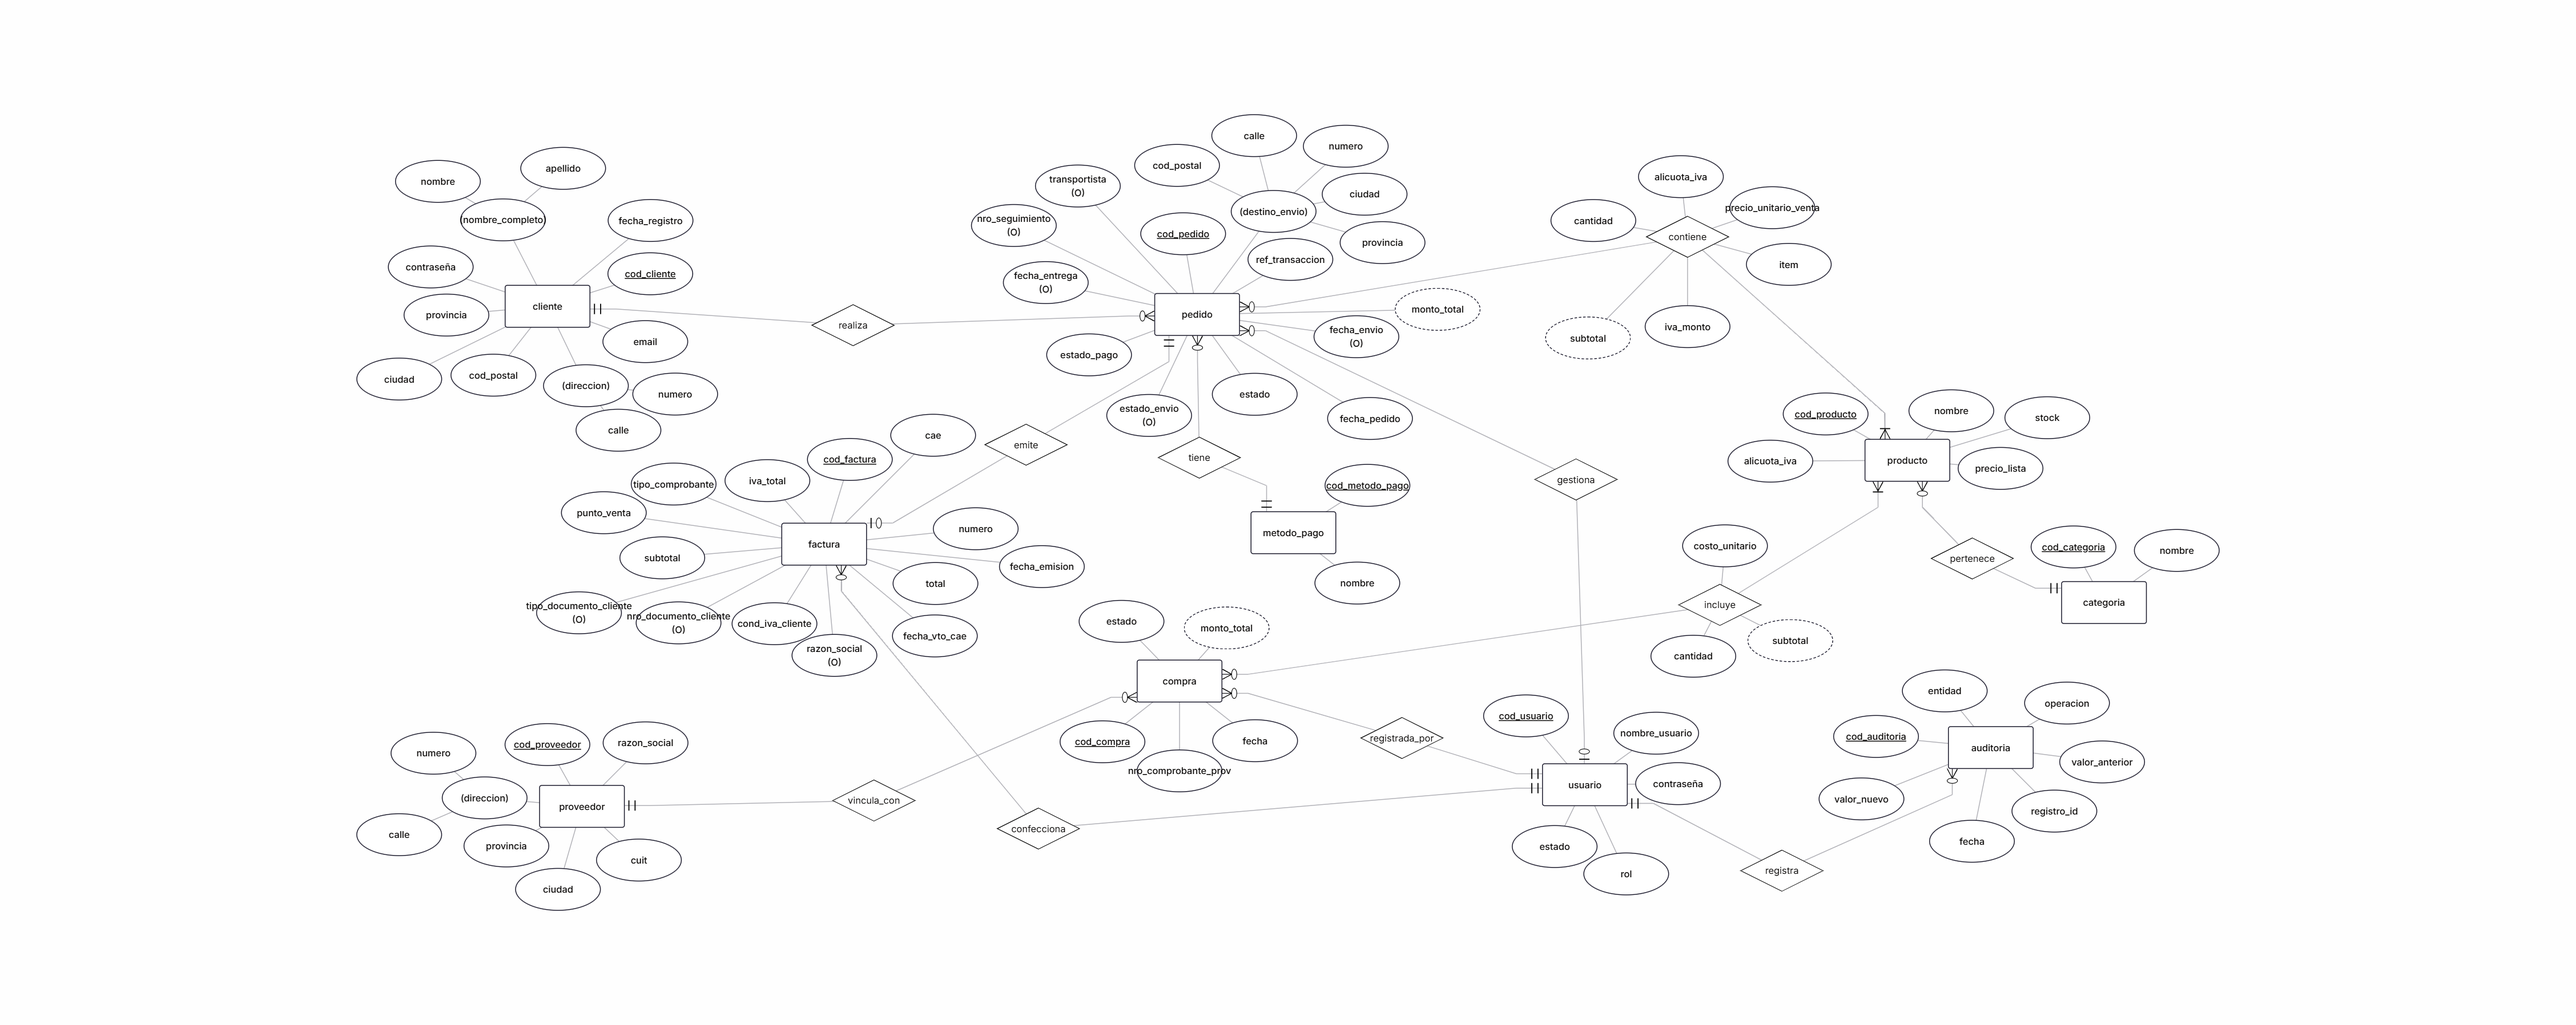
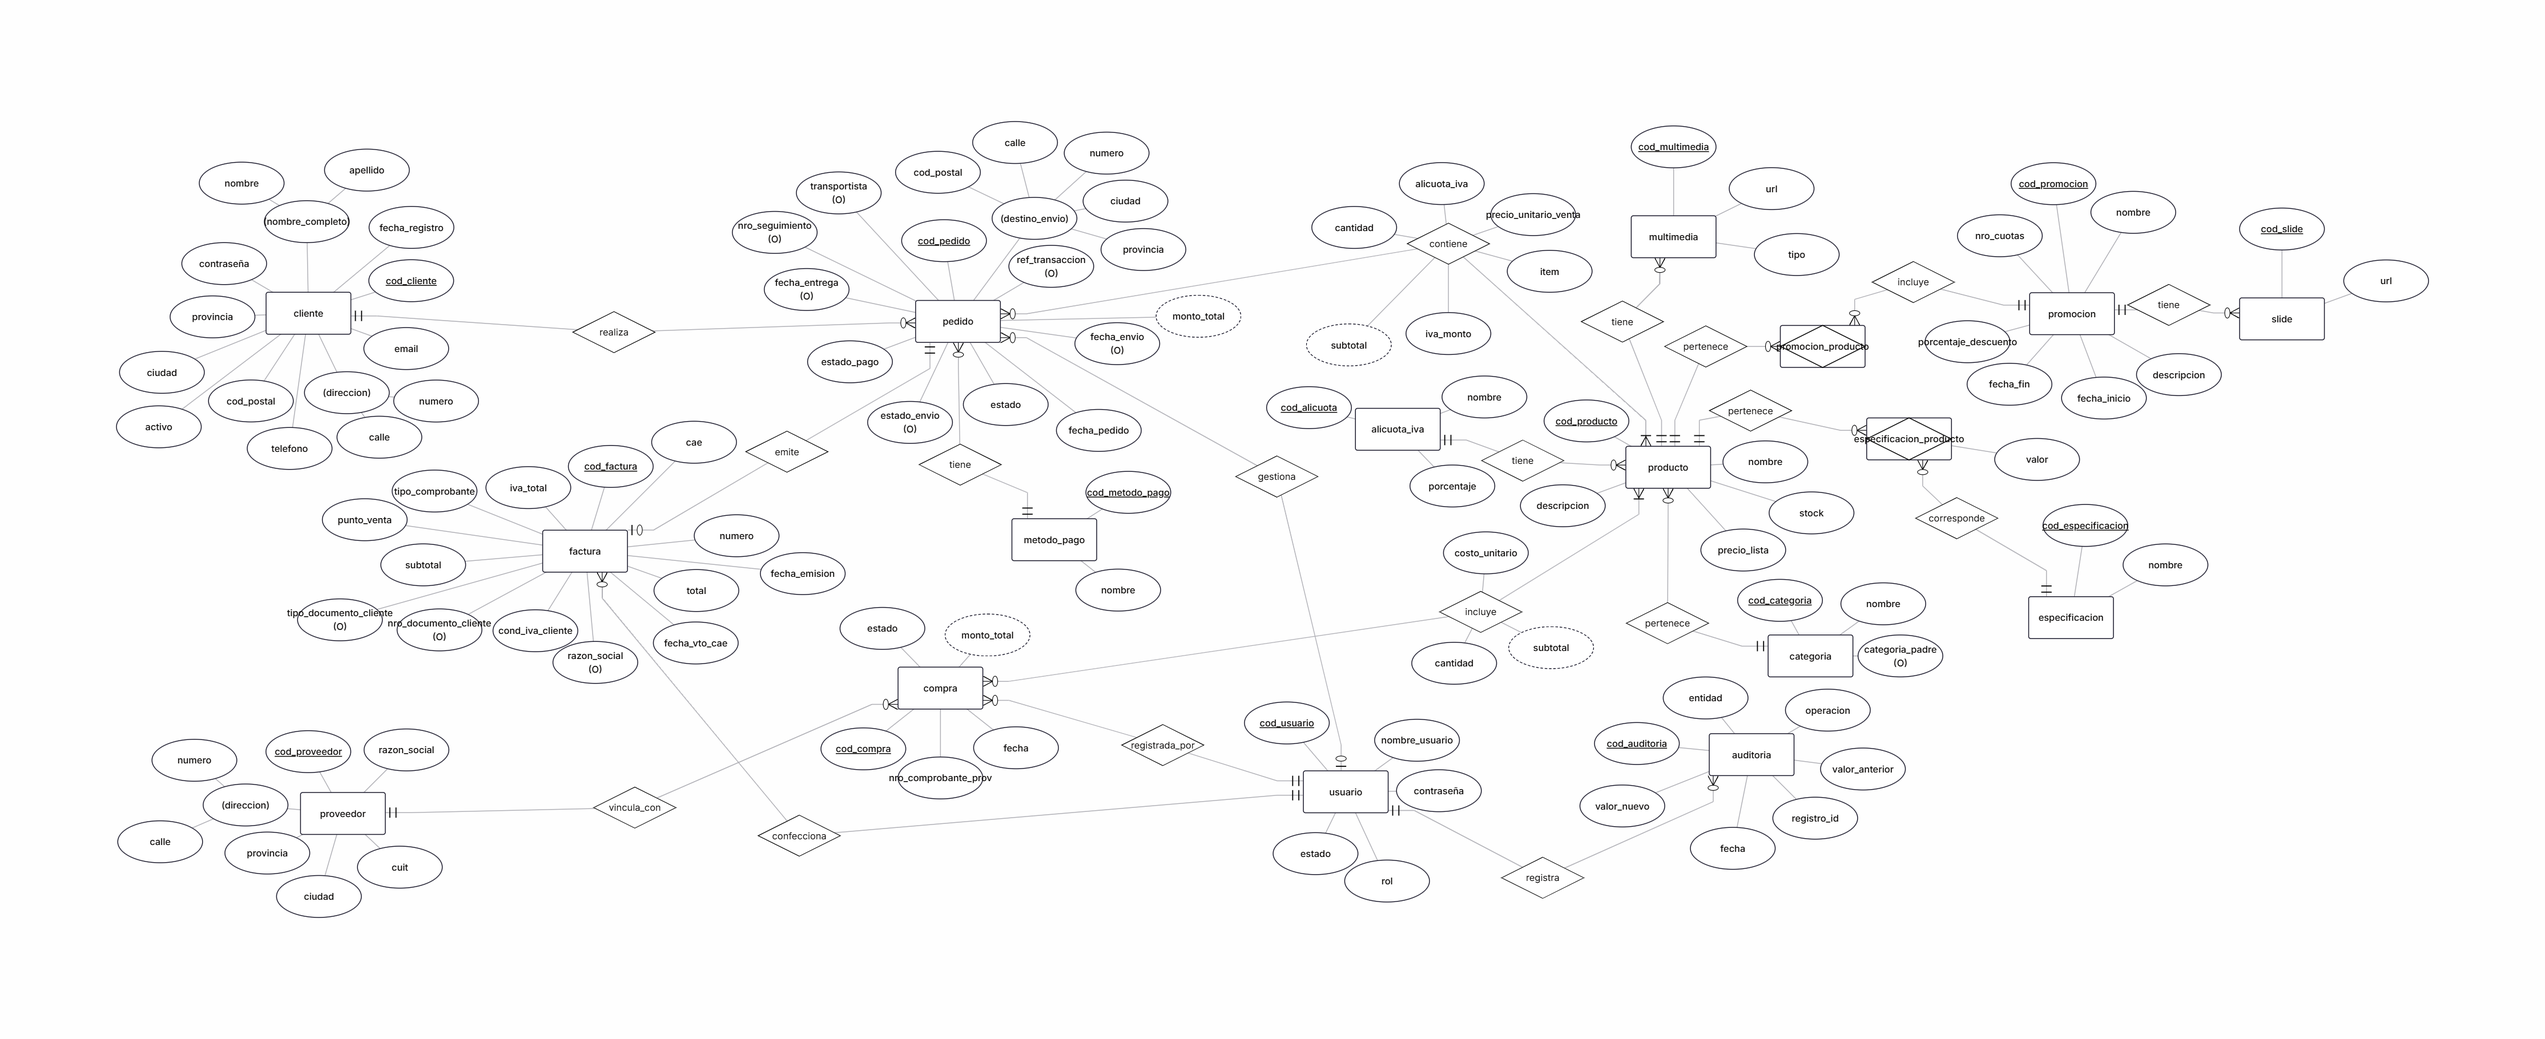
Primer refinamiento de la etapa 1 y 2

diff --git a/docs/etapa-02/modelo-relacional.md b/docs/etapa-02/modelo-relacional.md
@@ -93,10 +93,10 @@ A continuación el detalle en tablas del mapeo de cada una de las entidades fuer
 | cod_producto | INT | PK |
 | nombre | VARCHAR | |
 | precio_lista | DECIMAL | |
-| alicuota_iva | DECIMAL | |
+| descripcion | VARCHAR | Opcional |
+| cod_alicuota | INT | FK -> alicuota_iva |
 | stock | INT | |
 | cod_categoria | INT | FK -> categoria |
-
 
 ### detalle_pedido
 | Columna | Tipo Dato| Restricción |
@@ -170,10 +170,61 @@ A continuación el detalle en tablas del mapeo de cada una de las entidades fuer
 | valor_nuevo | VARCHAR | |
 | cod_usuario | INT | FK → usuario |
 
+### alicuota_iva
+| Columna | Tipo Dato | Restricción |
+|---|---|---|
+| cod_alicuota | INT | PK (código oficial de ARCA) |
+| nombre | VARCHAR | UQ |
+| porcentaje | DECIMAL | UQ |
+
+### promocion
+| Columna | Tipo Dato | Restricción |
+|---|---|---|
+| cod_promocion | INT | PK |
+| nombre | VARCHAR | |
+| descripcion | VARCHAR | Opcional |
+| fecha_inicio | DATETIME | |
+| fecha_fin | DATETIME | |
+| porcentaje_descuento | DECIMAL | Opcional |
+| nro_cuotas | INT | Opcional |
+
+### promocion_producto
+| Columna | Tipo Dato | Restricción |
+|---|---|---|
+| cod_promocion | INT | PK, FK -> promocion |
+| cod_producto | INT | PK, FK -> producto |
+
+### slide
+| Columna | Tipo Dato | Restricción |
+|---|---|---|
+| cod_slide | INT | PK |
+| url | VARCHAR | UQ |
+| cod_promocion | INT | FK -> promocion |
+
+### multimedia
+| Columna | Tipo Dato | Restricción |
+|---|---|---|
+| cod_multimedia | INT | PK |
+| url | VARCHAR | UQ |
+| cod_producto | INT | FK -> producto |
+
+### especificacion
+| Columna | Tipo Dato | Restricción |
+|---|---|---|
+| cod_especificacion | INT | PK |
+| nombre | VARCHAR | UQ |
+
+### especificacion_producto
+| Columna | Tipo Dato | Restricción |
+|---|---|---|
+| cod_producto | INT | PK, FK -> producto |
+| cod_especificacion | INT | PK, FK -> especificacion |
+| valor | VARCHAR | |
+
 
 ## Descripciones del mapeo
 
-En el DER propuesto para el sistema, las entidades fuertes son: cliente, pedido, metodo_pago, producto, categoria, usuario, proveedor, compra, factura y auditoria.
+En el DER propuesto para el sistema, las entidades fuertes son: cliente, pedido, metodo_pago, producto, categoria, usuario, proveedor, compra, factura, auditoria, alicuota_iva, promocion, slide, multimedia y especificacion.
 
 Los atributos compuestos del DER (nombre_completo, direccion, destino_envio) se descomponen en sus componentes simples como columnas independientes:
 nombre_completo -> nombre + apellido.
@@ -189,12 +240,19 @@ metodo_pago (1) — pedido (N) -> metodo_pago.cod_metodo_pago FK,
 proveedor (1) — compra (N) -> compra.cod_proveedor FK,
 usuario (1) — compra (N) -> compra.cod_usuario FK,
 usuario (1) — factura (N) -> factura.cod_usuario FK,
-usuario (1) — auditoria (N) -> auditoria.cod_usuario FK.
+usuario (1) — auditoria (N) -> auditoria.cod_usuario FK,
+alicuota_iva (1) — producto (N) -> producto.cod_alicuota FK,
+promocion (1) — slide (N) -> slide.cod_promocion FK,
+producto (1) — multimedia (N) -> multimedia.cod_producto FK.
 
 Relación 1:1 opcional: pedido (1) — factura (0..1). La FK se ubica en el lado de cardinalidad obligatoria hacia el otro, es decir en `factura` (factura.cod_pedido), ya que toda factura requiere obligatoriamente un pedido, mientras que un pedido puede no tener factura todavía (por ejemplo, si todavía no fue facturado).
 
 Relación N:M: La relación pedido — producto (`contiene`) pasa a ser la tabla `detalle_pedido`, cuya PK combina las FK de ambas entidades participantes (cod_pedido, cod_producto).
 La relación compra — producto (`incluye`) pasa a ser la tabla `detalle_compra`, cuya PK combina las FK de ambas entidades participantes (cod_compra, cod_producto).
+La relación producto — promocion (`participa`) pasa a ser la tabla `promocion_producto`, cuya PK combina las FK de ambas entidades participantes (cod_promocion, cod_producto).
+La relación producto — especificacion (`posee`) pasa a ser la tabla `especificacion_producto`, cuya PK combina las FK de ambas entidades participantes (cod_producto, cod_especificacion).
+
+Atributos de la relación N:M especificacion_producto: el atributo que colgaba del rombo "posee" (valor) pasa a ser columna de especificacion_producto, ya que depende de la combinación completa de ambas FK (el mismo tipo de especificación tiene distinto valor en cada producto).
 
 Atributos de la relación N:M detalle_pedido: Los atributos que colgaban del rombo de relación en el DER (cantidad, precio_unitario_venta, alicuota_iva, iva_monto, item en "contiene") pasan a ser columnas de detalle_pedido, ya que dependen funcionalmente de la combinación completa de ambas FK.
 
@@ -202,8 +260,7 @@ Atributos de la relación N:M detalle_compra: Los atributos que colgaban del rom
 
 Los atributos marcados como "Derived" en el DER (monto_total de pedido, monto_total de compra y subtotal en las relaciones N:M "contiene" e "incluye") no se almacenan como columna física; se calculan en el momento de la consulta o mediante función/columna generada.
 
-Los atributos marcados (O)/Optional en el DER (estado_envio, transportista, nro_seguimiento, fecha_envio, fecha_entrega en pedido; nro_comprobante_prov en compra; tipo_documento_cliente, nro_documento_cliente, razon_social en factura) se mantienen como columnas que admiten valores nulos.
-
+Los atributos marcados (O)/Optional en el DER (estado_envio, transportista, nro_seguimiento, fecha_envio, fecha_entrega en pedido; nro_comprobante_prov en compra; tipo_documento_cliente, nro_documento_cliente, razon_social en factura; descripcion en producto; descripcion, porcentaje_descuento y nro_cuotas en promocion) se mantienen como columnas que admiten valores nulos.
 
 ## Diagrama relacional
 
@@ -222,6 +279,13 @@ erDiagram
     COMPRA ||--|{ DETALLE_COMPRA : incluye
     PRODUCTO ||--o{ DETALLE_COMPRA : "incluido en"
     USUARIO ||--o{ AUDITORIA : registra
+    ALICUOTA_IVA ||--o{ PRODUCTO : aplica
+    PRODUCTO ||--o{ PROMOCION_PRODUCTO : participa
+    PROMOCION ||--|{ PROMOCION_PRODUCTO : incluye
+    PROMOCION ||--o{ SLIDE : publica
+    PRODUCTO ||--o{ MULTIMEDIA : muestra
+    PRODUCTO ||--o{ ESPECIFICACION_PRODUCTO : posee
+    ESPECIFICACION ||--o{ ESPECIFICACION_PRODUCTO : corresponde
 
 
     CLIENTE {
@@ -254,11 +318,12 @@ erDiagram
     PRODUCTO {
         INT cod_producto PK
         VARCHAR nombre
+        VARCHAR descripcion "O"
         DECIMAL precio_lista
-        DECIMAL alicuota_iva
+        INT cod_alicuota FK
         INT stock
         INT cod_categoria FK
-    }   
+    } 
 
     METODO_PAGO {
         INT cod_metodo_pago PK
@@ -350,6 +415,50 @@ erDiagram
         VARCHAR valor_anterior
         VARCHAR valor_nuevo
         INT cod_usuario FK
+    }
+
+    ALICUOTA_IVA {
+        INT cod_alicuota PK
+        VARCHAR nombre UK
+        DECIMAL porcentaje UK
+    }
+
+    PROMOCION {
+        INT cod_promocion PK
+        VARCHAR nombre
+        VARCHAR descripcion "O"
+        DATETIME fecha_inicio
+        DATETIME fecha_fin
+        DECIMAL porcentaje_descuento "O"
+        INT nro_cuotas "O"
+    }
+
+    PROMOCION_PRODUCTO {
+        INT cod_promocion PK,FK
+        INT cod_producto PK,FK
+    }
+
+    SLIDE {
+        INT cod_slide PK
+        VARCHAR url UK
+        INT cod_promocion FK
+    }
+
+    MULTIMEDIA {
+        INT cod_multimedia PK
+        VARCHAR url UK
+        INT cod_producto FK
+    }
+
+    ESPECIFICACION {
+        INT cod_especificacion PK
+        VARCHAR nombre UK
+    }
+
+    ESPECIFICACION_PRODUCTO {
+        INT cod_producto PK,FK
+        INT cod_especificacion PK,FK
+        VARCHAR valor
     }
 ```
 

diff --git a/docs/etapa-01/reglas-negocio.md b/docs/etapa-01/reglas-negocio.md
@@ -24,7 +24,7 @@
 
 **RN.12:** Cada operación interna del sistema se realiza a través de un usuario con credenciales únicas y rol asignado previamente: depósito, administrador o soporte. No existe el rol vendedor (en e-commerce el pedido lo genera el cliente directamente, sin intervención de un vendedor).
 
-**RN.13:** El rol depósito gestiona las compras a proveedores y confirma el despacho de pedidos (lo que dispara la salida de stock); el rol administrador gestiona el catálogo (productos, categorías, proveedores, precios), la administración de usuarios (creación de cuentas), y tiene acceso de solo lectura a la auditoría; el rol soporte puede consultar el estado de pedidos y envíos, sin permisos sobre catálogo ni compras.
+**RN.13:** El rol depósito gestiona las compras a proveedores y confirma el despacho de pedidos (lo que dispara la salida de stock); el rol administrador gestiona el catálogo (productos, categorías, proveedores, precios, alícuotas de IVA, promociones, slides, multimedia y especificaciones), la administración de usuarios (creación de cuentas), y tiene acceso de solo lectura a la auditoría; el rol soporte puede consultar el estado de pedidos y envíos, sin permisos sobre catálogo ni compras.
 
 **RN.14:** Los cambios sobre datos sensibles (precios, stock, pedidos, compras, facturación) quedan registrados en la auditoría, identificando el usuario responsable, la operación realizada y la fecha.
 
@@ -43,3 +43,15 @@
 **RN.21:** Toda factura queda asociada al usuario que la emitió, para su trazabilidad en la auditoría.
 
 **RN.22:** Al confirmar el despacho de un pedido, el sistema registra qué usuario del rol depósito realizó esa gestión.
+
+**RN.23:** Una promoción se registra con nombre, descripción, fecha de inicio y fecha de fin (la fecha de fin no puede ser anterior a la de inicio). Puede ofrecer un porcentaje de descuento (mayor a 0 y hasta 75), cuotas sin interés (entre 2 y 36), o ambos, pero al menos uno de los dos beneficios.
+
+**RN.24:** Una promoción puede aplicarse a uno o varios productos, y un producto puede participar en varias promociones a lo largo del tiempo. Si un producto tiene más de una promoción vigente a la vez, se aplica la de mayor descuento. El precio final con descuento queda congelado en el detalle del pedido al confirmarse la venta (complementa RN.03 y RN.19).
+
+**RN.25:** Una promoción puede tener ninguno, uno o varios slides (banners), y cada slide pertenece a una única promoción.
+
+**RN.26:** Un producto puede tener ninguno, uno o varios archivos multimedia (imágenes o videos) identificados por su URL, y cada archivo pertenece a un único producto.
+
+**RN.27:** Las especificaciones técnicas forman un catálogo con nombre único. Cada producto puede tener varias especificaciones, y cada una registra un valor propio para ese producto (por ejemplo, especificación "Tamaño de pantalla", valor "50 pulgadas").
+
+**RN.28:** Las alícuotas de IVA se registran en un catálogo único y cada producto tiene asignada una alícuota de ese catálogo. Por el rubro de la tienda, los productos solo utilizan la alícuota general (21 %) o la reducida (10,5 %). Al confirmarse una venta, el porcentaje vigente se copia en el detalle del pedido y no se modifica aunque el catálogo cambie después (complementa RN.19).

diff --git a/docs/etapa-02/decisiones-diseno.md b/docs/etapa-02/decisiones-diseno.md
@@ -36,6 +36,21 @@ Se evaluó modelar el domicilio del cliente en una entidad "domicilio" versionad
 
 ## 9. Alícuota de IVA en Producto y en DetallePedido
 
-"producto.alicuota_iva" refleja la alícuota vigente aplicable al producto (ya que ésta puede variar según su clasificación fiscal, entre categorías de productos). "detallePedido.alicuota_iva" es una copia histórica de esa alícuota al momento de la venta, se justifica no porque varíe entre productos, sino porque las alícuotas pueden modificarse en el tiempo (por ejemplo por decreto); un pedido ya facturado no debe verse afectado por cambios normativos posteriores.
+"producto.cod_alicuota" referencia la alícuota vigente aplicable al producto en el catálogo alicuota_iva (ver decisión 13)(ya que ésta puede variar según su clasificación fiscal, entre categorías de productos). "detallePedido.alicuota_iva" es una copia histórica de esa alícuota al momento de la venta, se justifica no porque varíe entre productos, sino porque las alícuotas pueden modificarse en el tiempo (por ejemplo por decreto); un pedido ya facturado no debe verse afectado por cambios normativos posteriores.
 
 
+## 10. Valor de la especificación en la relación y no en la entidad
+
+`especificacion` funciona como catálogo con el nombre de cada característica (por ejemplo "Tamaño de pantalla"). El dato concreto de cada producto ("50 pulgadas") se guarda en `especificacion_producto.valor`, porque depende de la combinación producto + especificación. Así se evita repetir el nombre de la especificación en cada producto y se garantiza que se escriba siempre igual (nombre único).
+
+## 11. URLs en lugar de archivos
+
+`multimedia` y `slide` guardan la dirección del archivo alojado en un servidor de contenidos, no el archivo en sí. Esto mantiene la base liviana y permite cambiar el archivo sin modificar la estructura. Se exige que la URL comience con `https://`.
+
+## 12. Precio con promoción
+
+El descuento no modifica `producto.precio_lista`. Al confirmar la venta, el precio final con IVA y con el descuento de la promoción vigente queda congelado en `detalle_pedido.precio_unitario_venta` (mismo criterio que RN.03). Si hay varias promociones vigentes para un producto se aplica la de mayor descuento (RN.24). Esta regla involucra varias filas y no puede resolverse con un CHECK, por lo que se implementará en la Etapa V.
+
+## 13. Catálogo de alícuotas de IVA
+
+Las alícuotas se registran en la tabla `alicuota_iva` y cada producto la referencia mediante `cod_alicuota`. Si una norma modifica una alícuota, se actualiza una sola fila y todos los productos quedan al día. Como código se usa el que asigna ARCA a cada alícuota en la factura electrónica (3 = 0 %, 9 = 2,5 %, 8 = 5 %, 4 = 10,5 %, 5 = 21 %, 6 = 27 %), lo que facilita la integración con la facturación. `detalle_pedido.alicuota_iva` no referencia al catálogo: guarda una copia del porcentaje vigente al momento de la venta, para que los cambios posteriores no alteren ventas ni facturas ya emitidas (complementa la decisión 9).

diff --git a/docs/etapa-01/alcance.md b/docs/etapa-01/alcance.md
@@ -3,7 +3,8 @@
 ## Funciones que cubrirá el sistema
 
 - **Gestión de clientes**: registro y autogestión de clientes (alta, login con email/contraseña, nombre completo y dirección de envío).
-- **Gestión de productos**: catálogo de productos y categorías, con sus respectivos precio de lista y stock.
+- **Gestión de productos**: catálogo de productos y categorías, con sus respectivos precio de lista, alícuota de IVA, stock, descripción, especificaciones técnicas (ficha técnica) y contenido multimedia (imágenes y videos).
+- **Gestión de promociones**: registro de promociones con vigencia, porcentaje de descuento y/o cuotas sin interés, aplicables a uno o varios productos, y sus slides (banners) para la página principal de la tienda.
 - **Gestión de compras a proveedores**: catálogo de proveedores, historial de compras y control de stock mediante actualización en catálogo de productos.
 - **Registro de pedidos**: con confirmación por parte del cliente, validación automática de stock disponible antes de confirmar la operación, y seguimiento logístico del envío (transportista, número de seguimiento, estado), método de pago, estado y monto como datos propios del pedido.
 - **Registro de métodos de pago.**

diff --git a/docs/etapa-02/normalizacion.md b/docs/etapa-02/normalizacion.md
@@ -234,3 +234,4 @@ En "proveedor", "cuit" es clave candidata (cuit -> cod_proveedor), así que no g
 Con esto, "compra", "detalle_compra", "proveedor", "usuario" y "producto" alcanzan 3FN y coinciden con las tablas del modelo relacional (ver modelo-relacional.md).
 
 "costo_unitario" en "detalle_compra" es un atributo histórico: guarda el costo pactado en esa compra y no se actualiza si el proveedor cambia sus precios después (RN.08). El monto total de la compra no se almacena: se calcula a partir de "costo_unitario" y "cantidad" de cada línea, igual que el total del pedido (RN.10).
+
